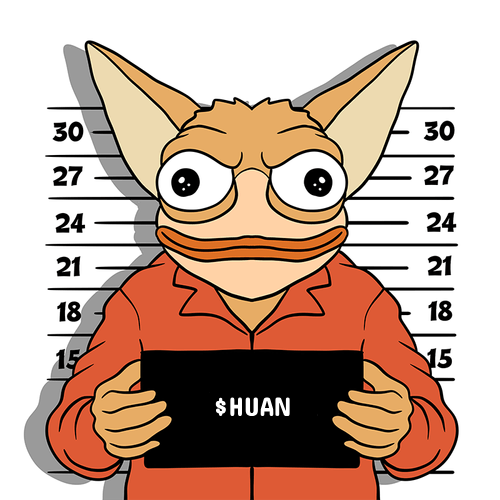
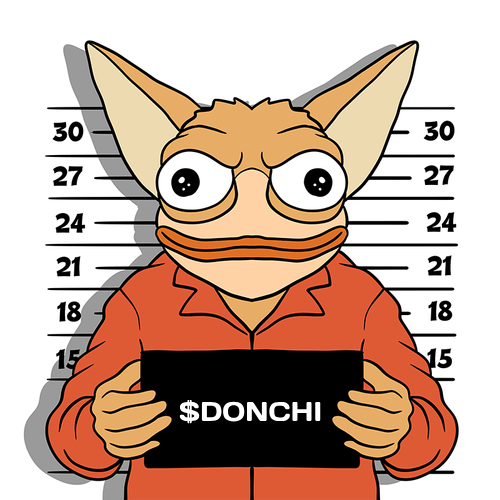
1

Changed region(s): [[0.36, 0.78, 0.66, 0.87]]

diff --git a/index.html b/index.html
@@ -2,9 +2,9 @@
 <html data-wf-page="6694e6c6ffe7ec007a5fe0f6" data-wf-site="6694e6c6ffe7ec007a5fe0e5">
 <head>
   <meta charset="utf-8">
-  <title>DON HUAN</title>
+  <title>DON CHIHUAN</title>
   <meta content="width=device-width, initial-scale=1" name="viewport">
-  <meta content="DON HUAN" name="$HUAN">
+  <meta content="DON CHIHUAN" name="$DONCHI">
   <link href="css/normalize.css" rel="stylesheet" type="text/css">
   <link href="css/fenn.css" rel="stylesheet" type="text/css">
   <link href="css/fennsol.css" rel="stylesheet" type="text/css">
@@ -20,7 +20,7 @@
   <source src="music.mp3" type="audio/mpeg">
 </audio>
   <div class="section_welcome">
-    <div data-w-id="d09afd53-cc98-39b9-e454-fb562317df2b" style="opacity:0" class="title">$HUAN</div>
+    <div data-w-id="d09afd53-cc98-39b9-e454-fb562317df2b" style="opacity:0" class="title">$DONCHI</div>
     <a data-w-id="685761e2-9dc5-6162-ecdc-14ebf643b7cd" style="opacity:0" href="#" class="continue w-button">CONTINUE</a>
   </div>
   <div class="w-embed">
@@ -32,7 +32,7 @@ html, body {
   </div>
   <div class="header">
     <div class="menu">
-      <a href="https://pump.fun/b6advD4obbMqD5fr4UBnjN8rA88n2XEyT1mZYZ3HUAN" class="button_buy w-button">BUY $HUAN</a>
+      <a href="https://pump.fun/Rrbpbm3HWi2bmN4o39MR8UxNqBpUWy4PfsA16AYpump" class="button_buy w-button">BUY $DONCHI</a>
     </div>
     <div class="menu_right">
       <div class="menu_buttons">
@@ -41,12 +41,12 @@ html, body {
         <a href="#join" class="menu_link w-button">JOIN</a>
         <a href="#" class="menu_link w-button">DEXSCREENER[SOON]</a>
       </div>
-      <a href="https://t.me/huansolanacoin" class="tg w-button"></a>
-      <a href="https://x.com/huansolanacoin" class="x w-button"></a>
+      <a href="https://t.me/donchiwtf" class="tg w-button"></a>
+      <a href="https://x.com/donchiwtf" class="x w-button"></a>
     </div>
   </div>
   <div class="wrapper">
-    <div class="section_hero"> <img src="images/cloud_hero_blue.svg" loading="lazy" alt="" class="clouds_hero_blue"><img src="images/clouds_hero_white.svg" loading="lazy" style="-webkit-transform:translate3d(-89vw, 0, 0) scale3d(1, 1, 1) rotateX(0) rotateY(0) rotateZ(0) skew(0, 0);-moz-transform:translate3d(-89vw, 0, 0) scale3d(1, 1, 1) rotateX(0) rotateY(0) rotateZ(0) skew(0, 0);-ms-transform:translate3d(-89vw, 0, 0) scale3d(1, 1, 1) rotateX(0) rotateY(0) rotateZ(0) skew(0, 0);transform:translate3d(-89vw, 0, 0) scale3d(1, 1, 1) rotateX(0) rotateY(0) rotateZ(0) skew(0, 0)" data-w-id="59f95f3e-db18-afbe-428f-cf73599fe10e" alt="" class="clouds_hero_white">   <div class="logo-title">DON HUAN</div>                       <img src="images/palm.svg" loading="lazy" style="-webkit-transform:translate3d(-33vw, 0, 0) scale3d(1, 1, 1) rotateX(0) rotateY(0) rotateZ(0) skew(0, 0);-moz-transform:translate3d(-33vw, 0, 0) scale3d(1, 1, 1) rotateX(0) rotateY(0) rotateZ(0) skew(0, 0);-ms-transform:translate3d(-33vw, 0, 0) scale3d(1, 1, 1) rotateX(0) rotateY(0) rotateZ(0) skew(0, 0);transform:translate3d(-33vw, 0, 0) scale3d(1, 1, 1) rotateX(0) rotateY(0) rotateZ(0) skew(0, 0)" data-w-id="b00e3dc6-1b1d-6a6d-198b-9bd509bbb92a" alt="" class="palm_hero">
+    <div class="section_hero"> <img src="images/cloud_hero_blue.svg" loading="lazy" alt="" class="clouds_hero_blue"><img src="images/clouds_hero_white.svg" loading="lazy" style="-webkit-transform:translate3d(-89vw, 0, 0) scale3d(1, 1, 1) rotateX(0) rotateY(0) rotateZ(0) skew(0, 0);-moz-transform:translate3d(-89vw, 0, 0) scale3d(1, 1, 1) rotateX(0) rotateY(0) rotateZ(0) skew(0, 0);-ms-transform:translate3d(-89vw, 0, 0) scale3d(1, 1, 1) rotateX(0) rotateY(0) rotateZ(0) skew(0, 0);transform:translate3d(-89vw, 0, 0) scale3d(1, 1, 1) rotateX(0) rotateY(0) rotateZ(0) skew(0, 0)" data-w-id="59f95f3e-db18-afbe-428f-cf73599fe10e" alt="" class="clouds_hero_white">   <div class="logo-title">DON CHIHUAN</div>                       <img src="images/palm.svg" loading="lazy" style="-webkit-transform:translate3d(-33vw, 0, 0) scale3d(1, 1, 1) rotateX(0) rotateY(0) rotateZ(0) skew(0, 0);-moz-transform:translate3d(-33vw, 0, 0) scale3d(1, 1, 1) rotateX(0) rotateY(0) rotateZ(0) skew(0, 0);-ms-transform:translate3d(-33vw, 0, 0) scale3d(1, 1, 1) rotateX(0) rotateY(0) rotateZ(0) skew(0, 0);transform:translate3d(-33vw, 0, 0) scale3d(1, 1, 1) rotateX(0) rotateY(0) rotateZ(0) skew(0, 0)" data-w-id="b00e3dc6-1b1d-6a6d-198b-9bd509bbb92a" alt="" class="palm_hero">
       <div data-w-id="4e548cfb-595a-bee4-878a-53ce60c61281" style="-webkit-transform:translate3d(-100vw, 0, 0) scale3d(1, 1, 1) rotateX(0) rotateY(0) rotateZ(0) skew(0, 0);-moz-transform:translate3d(-100vw, 0, 0) scale3d(1, 1, 1) rotateX(0) rotateY(0) rotateZ(0) skew(0, 0);-ms-transform:translate3d(-100vw, 0, 0) scale3d(1, 1, 1) rotateX(0) rotateY(0) rotateZ(0) skew(0, 0);transform:translate3d(-100vw, 0, 0) scale3d(1, 1, 1) rotateX(0) rotateY(0) rotateZ(0) skew(0, 0)" class="hero_ground">
         <div class="ground_hider"></div>
         <div class="h_ground">
@@ -88,11 +88,11 @@ html, body {
         <div data-w-id="93d8973c-4341-aee1-62be-d0794ab1f487" style="opacity:1" class="flash_right"></div>
       </div>
       <div class="h1">YOU GET<br>3 LIVES</div>
-      <div class="h2">DON HUAN TOKENOMICS EXPOSED!</div><img src="images/jail_chara.png" loading="lazy" sizes="(max-width: 479px) 100vw, (max-width: 767px) 83vw, 500px" srcset="images/jail_chara-p-500.png 500w, images/jail_chara.png 800w" alt="" class="chara_jail">
+      <div class="h2">DON CHIHUAN TOKENOMICS EXPOSED!</div><img src="images/jail_chara.png" loading="lazy" sizes="(max-width: 479px) 100vw, (max-width: 767px) 83vw, 500px" srcset="images/jail_chara-p-500.png 500w, images/jail_chara.png 800w" alt="" class="chara_jail">
       <div class="block_tokenomics">
         <div class="tokenomics_in">
           <div class="tokenomics_details">
-            <div class="tokenomics_title">TOTAL SUPPLY: 1 BILLION $HUAN</div>
+            <div class="tokenomics_title">TOTAL SUPPLY: 1 BILLION $DONCHI</div>
           </div>
           <div class="tokenomics_details">
             <div class="tokenomics_title">MINT REVOKED</div>
@@ -104,7 +104,7 @@ html, body {
             <div class="tokenomics_title">tax 0%</div>
           </div>
           <div class="tokenomics_details">
-            <div class="ca">b6advD4obbMqD5fr4UBnjN8rA88n2XEyT1mZYZ3HUAN</div>
+            <div class="ca">Rrbpbm3HWi2bmN4o39MR8UxNqBpUWy4PfsA16AYpump</div>
           </div>
         </div>
       </div>
@@ -112,7 +112,7 @@ html, body {
     <div class="transition_05"></div>
     <div class="scene_trader"><img src="images/trader_chara.png" loading="lazy" data-w-id="60299c3c-3803-76a7-14ad-b3bd10fb2650" sizes="(max-width: 479px) 95vw, (max-width: 767px) 74vw, 441.2375183105469px" alt="" srcset="images/trader_chara-p-500.png 500w, images/trader_chara.png 796w" class="chara_trader">
       <div class="h1">FROM lock <br>TO STOCK</div>
-      <div class="h2">DON HUAN&#x27;S TRADING COMEBACK</div><img src="images/trader_screens.png" loading="lazy" sizes="(max-width: 479px) 95vw, (max-width: 767px) 86vw, 658.3250122070312px" srcset="images/trader_screens-p-500.png 500w, images/trader_screens-p-800.png 800w, images/trader_screens.png 948w" alt="" class="image-2">
+      <div class="h2">DON CHIHUAN&#x27;S TRADING COMEBACK</div><img src="images/trader_screens.png" loading="lazy" sizes="(max-width: 479px) 95vw, (max-width: 767px) 86vw, 658.3250122070312px" srcset="images/trader_screens-p-500.png 500w, images/trader_screens-p-800.png 800w, images/trader_screens.png 948w" alt="" class="image-2">
       <div class="trader_desk"></div>
       <div class="trader_floor"></div>
     </div>
@@ -123,16 +123,16 @@ html, body {
     <div class="scene_rich">
       <div data-w-id="8ccefe30-c57a-9065-ecd9-a1f2992750d0" class="vegas_bg"></div>
       <div data-w-id="527c41bc-d6f5-007f-27cf-0eacd19559df" style="color:rgb(217,8,0)" class="h1 vegastitle">THE WORLD<br>IS YOURS</div>
-      <div class="h2 h2_vegas">DON HUAN&#x27;S DEGEN EMPIRE</div>
+      <div class="h2 h2_vegas">DON CHIHUAN&#x27;S DEGEN EMPIRE</div>
       <div class="rich_pic"><img src="images/shine.gif" loading="lazy" alt="" class="shiny"></div><img src="images/rich_smoking_chara.png" loading="lazy" sizes="(max-width: 479px) 185.8249969482422px, (max-width: 767px) 39vw, (max-width: 991px) 38vw, 371.6499938964844px" srcset="images/rich_smoking_chara-p-500.png 500w, images/rich_smoking_chara.png 800w" alt="" class="rich_chara_smoke"><img src="images/rich_chara.png" loading="lazy" sizes="(max-width: 479px) 100vw, (max-width: 767px) 69vw, (max-width: 991px) 58vw, 554.7750244140625px" srcset="images/rich_chara-p-500.png 500w, images/rich_chara.png 800w" alt="" class="rich_chara_middle"><img src="images/rich_chara_heart.png" loading="lazy" sizes="(max-width: 479px) 154.25px, (max-width: 767px) 32vw, (max-width: 991px) 31vw, 308.5px" srcset="images/rich_chara_heart-p-500.png 500w, images/rich_chara_heart.png 617w" alt="" class="rich_chara_heart">
     </div>
     <div class="footer">
       <div class="footer_socials">
-        <a href="https://t.me/huansolanacoin" class="footer_button w-button">TELEGRAM</a>
-        <a href="https://pump.fun/b6advD4obbMqD5fr4UBnjN8rA88n2XEyT1mZYZ3HUAN" class="footer_button w-button">PUMP.FUN</a>
-        <a href="https://x.com/huansolanacoin" class="footer_button w-button">x</a>
+        <a href="https://t.me/donchiwtf" class="footer_button w-button">TELEGRAM</a>
+        <a href="https://pump.fun/Rrbpbm3HWi2bmN4o39MR8UxNqBpUWy4PfsA16AYpump" class="footer_button w-button">PUMP.FUN</a>
+        <a href="https://x.com/donchiwtf" class="footer_button w-button">x</a>
       </div>
-      <div class="email">donhuansupport@gmail.com</div>
+      <div class="email">donchihuansupport@gmail.com</div>
     </div>
   </div>
   <script src="https://d3e54v103j8qbb.cloudfront.net/js/jquery-3.5.1.min.dc5e7f18c8.js?site=6694e6c6ffe7ec007a5fe0e5" type="text/javascript" integrity="sha256-9/aliU8dGd2tb6OSsuzixeV4y/faTqgFtohetphbbj0=" crossorigin="anonymous"></script>
